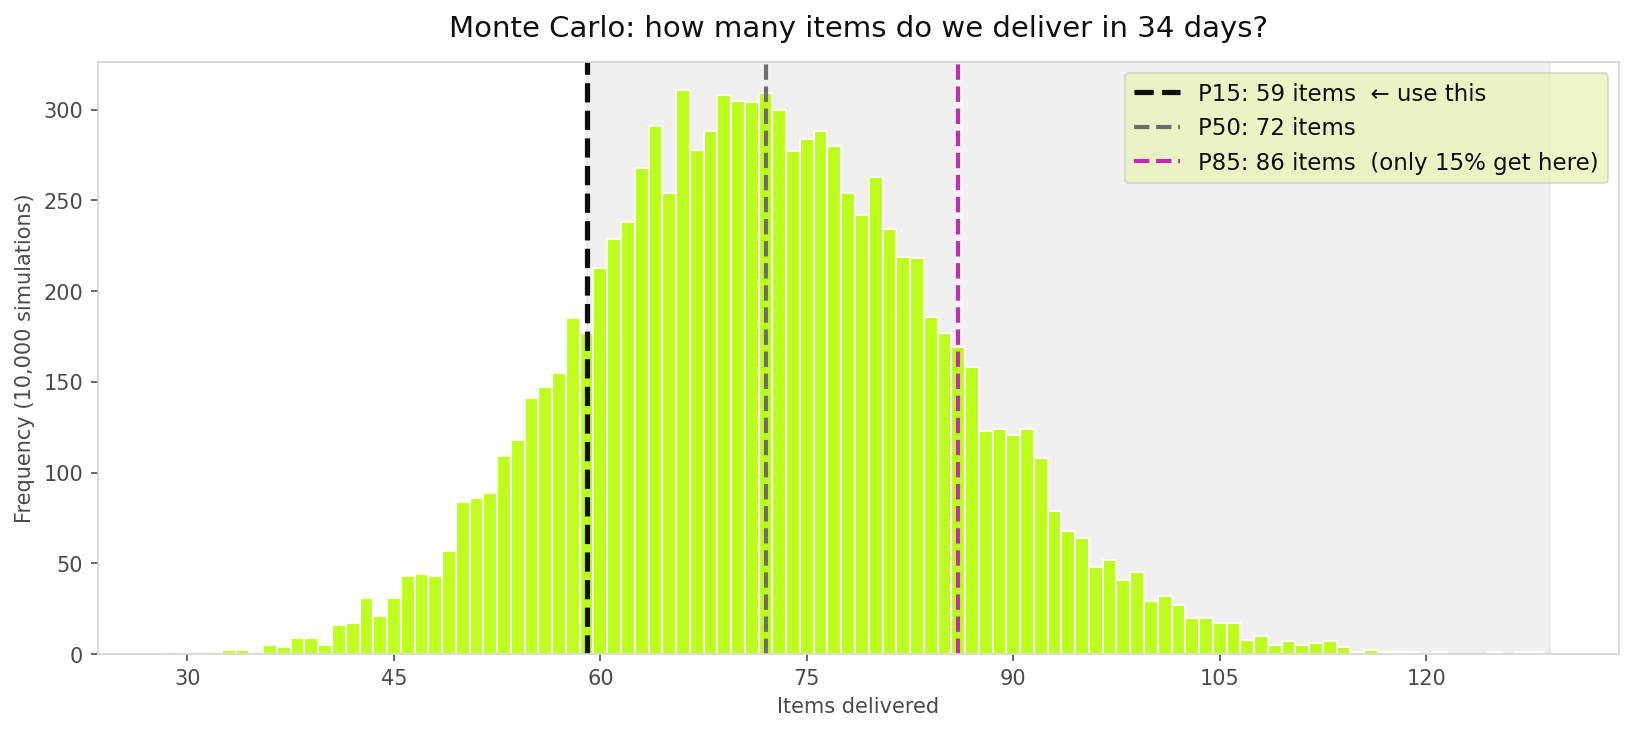
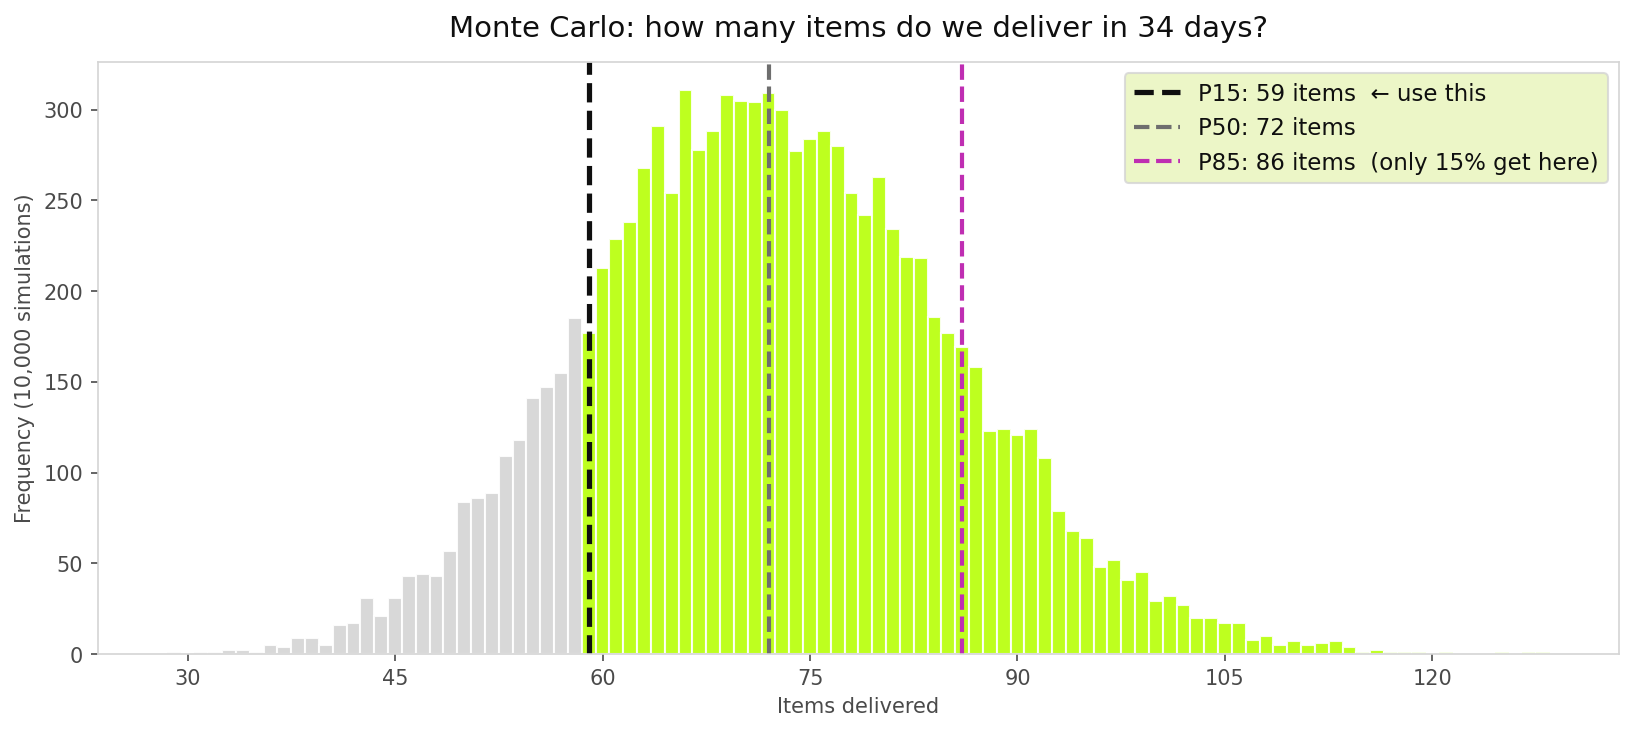
fix(slides): show the 85% of the items forecast as green bars
The light gray shading behind the bars was close to invisible. Bars below P15 are now gray, and the slide text points at the green bars.

Changed region(s): [[0.1561, 0.0902, 0.8427, 0.9317], [0.8739, 0.9016, 0.9051, 0.9317]]

diff --git a/generate_charts.py b/generate_charts.py
@@ -1549,10 +1549,11 @@ def fig_monte_carlo_itens(
     ax.set_facecolor(BG)
 
     bins = range(int(resultados.min()), int(resultados.max()) + 2)
-    ax.hist(resultados, bins=bins, color=MC_BAR, edgecolor=BG, alpha=0.9, align="left")
-
-    # Shade area to the right of P15 to show "85% das simulações"
-    ax.axvspan(p15, resultados.max() + 1, color=GREEN, alpha=0.10, zorder=0)
+    _, _, bars = ax.hist(resultados, bins=bins, color=MC_BAR, edgecolor=BG, alpha=0.9, align="left")
+    # As barras abaixo do P15 ficam cinza: as verdes são os 85% das simulações.
+    for bar in bars:
+        if bar.get_x() + bar.get_width() / 2 < p15:
+            bar.set_facecolor(GRID)
 
     ax.axvline(
         p15,

diff --git a/slides/slides.en.md b/slides/slides.en.md
@@ -467,7 +467,7 @@ class: full-height-img-slide
 
 # Result: 10,000 simulations of "how many items by June 1?"
 
-## The shaded area shows that 85% of the simulations deliver P15 items **or more**
+## The green bars, from the P15 line to the right, are 85% of the simulations: they deliver 59 items **or more**
 
 <img src="/monte_carlo_itens.en.png" alt="Histogram of 10,000 simulations of how many items are done by the deadline, with P15 highlighted as the safe forecast" style="width: 96%; max-height: 64%; object-fit: contain; display: block; margin: 1rem auto 0;" />
 

diff --git a/slides/slides.md b/slides/slides.md
@@ -464,7 +464,7 @@ class: full-height-img-slide
 
 # Resultado: 10.000 simulações — "quantos itens até 01/06?"
 
-## A área sombreada mostra que 85% das simulações entregam P15 itens **ou mais**
+## As barras verdes, da linha do P15 para a direita, são 85% das simulações: elas entregam 59 itens **ou mais**
 
 <img src="/monte_carlo_itens.png" alt="Histograma das 10.000 simulações de quantos itens até o prazo, com P15 destacado como estimativa conservadora" style="width: 96%; max-height: 64%; object-fit: contain; display: block; margin: 1rem auto 0;" />
 
